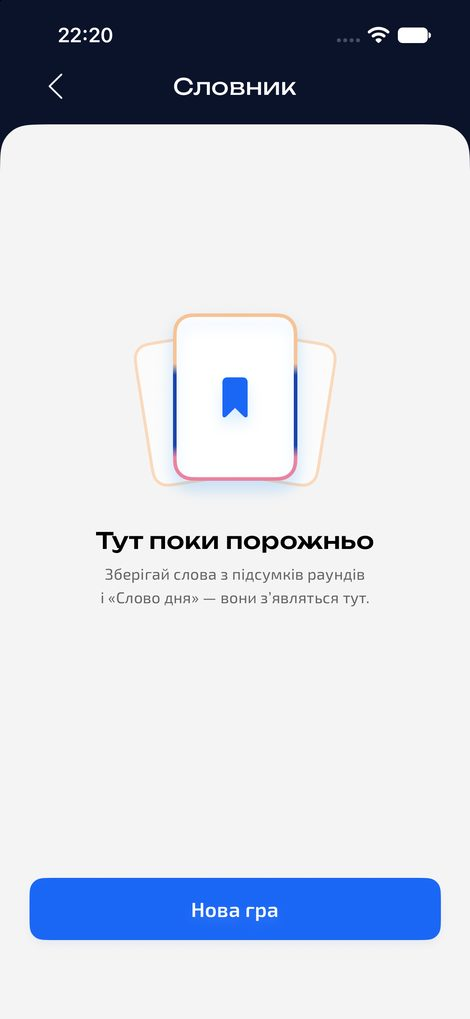
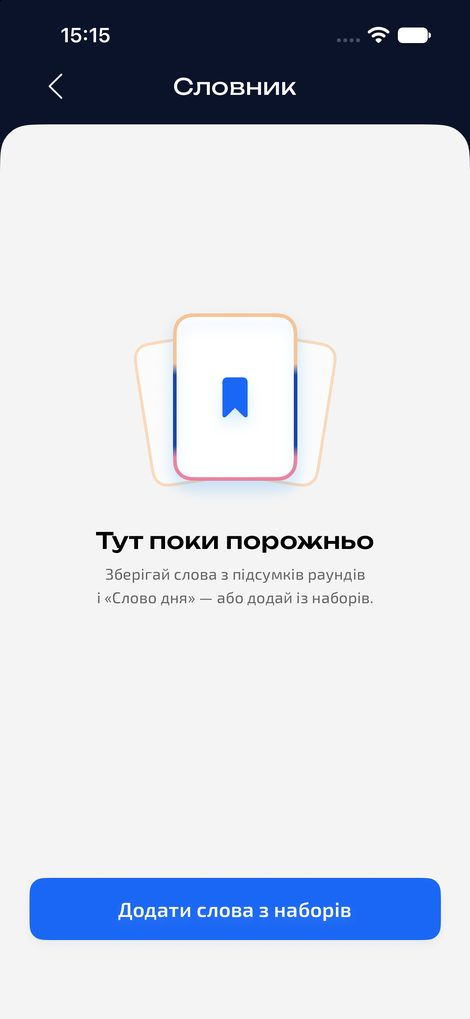
Словник: «Додати слова з наборів», «Слова набору» — 58 екранів
Claude-Session: https://claude.ai/code/session_01CGPdZXhbxxUGrxYWeE1EMW

diff --git a/index.html b/index.html
@@ -160,10 +160,10 @@ figcaption{cursor:zoom-in}
 <div class="wrap">
 <header class="mast">
 <h1>Флоу та екрани Marketium</h1>
-<p class="lede">Повна карта застосунку: шість користувацьких шляхів і всі 56 екранів. Кожен екран — справжній роут, знятий із симулятора, а не мокап. Структура зчитана з коду: <code>Router</code>, <code>RootView</code> і всі переходи між екранами.</p>
+<p class="lede">Повна карта застосунку: шість користувацьких шляхів і всі 58 екранів. Кожен екран — справжній роут, знятий із симулятора, а не мокап. Структура зчитана з коду: <code>Router</code>, <code>RootView</code> і всі переходи між екранами.</p>
 <div class="grad"></div>
 <div class="meta">
-<span><b>56</b> екранів</span><span><b>6</b> флоу</span>
+<span><b>58</b> екранів</span><span><b>6</b> флоу</span>
 <span>iPhone 16 · 393×852</span><span>SwiftUI · iOS</span>
 </div>
 <div class="howto"><span class="ic"><svg width="22" height="22" viewBox="0 0 24 24" fill="none" aria-hidden="true"><path d="M4 5.5A2.5 2.5 0 0 1 6.5 3h11A2.5 2.5 0 0 1 20 5.5v8a2.5 2.5 0 0 1-2.5 2.5H10l-4.2 3.6c-.7.6-1.8.1-1.8-.8V5.5Z" fill="currentColor"/><path d="M12 6.5v6M9 9.5h6" stroke="#fff" stroke-width="1.8" stroke-linecap="round"/></svg></span><div><b>Щоб лишити коментар — просто клікни на екран.</b><span>У тому місці зʼявиться пін і поле для тексту. Пиши, тисни «Надіслати» — коментар одразу потрапляє в таблицю команди. Без реєстрації.</span></div></div>
@@ -301,9 +301,9 @@ figcaption{cursor:zoom-in}
 </figure></div>
 </section><section class="flow" id="fD">
 <header class="fh">
-<div class="fh-top"><span class="code">D</span><h2>Словник</h2><span class="count">7</span></div>
+<div class="fh-top"><span class="code">D</span><h2>Словник</h2><span class="count">9</span></div>
 <p class="blurb">Слова, збережені під час гри. Флешкартки збирають колоду лише з невивчених і фіксують її на вході. Якщо вивчено все — береться повний словник як режим повторення.</p>
-<p class="path">savedWords → savedWordCards</p>
+<p class="path">savedWords → savedWordCards · addWords → setWords</p>
 </header>
 <div class="grid-screens"><figure class="card" tabindex="0" data-route="savedWords" data-label="Словник" data-note="Список, статистика, прогрес" data-src="shots/savedWords.jpg">
 <div class="shot"><img src="shots/savedWords.jpg" alt="Словник" loading="lazy"></div>
@@ -311,9 +311,9 @@ figcaption{cursor:zoom-in}
 </figure><figure class="card" tabindex="0" data-route="savedWordsDue" data-label="Час повторити" data-note="Вивчене дозріло — чіп «Повторити»" data-src="shots/savedWordsDue.jpg">
 <div class="shot"><img src="shots/savedWordsDue.jpg" alt="Час повторити" loading="lazy"></div>
 <figcaption><b>Час повторити</b><span class="note">Вивчене дозріло — чіп «Повторити»</span></figcaption>
-</figure><figure class="card" tabindex="0" data-route="savedWordsDone" data-label="На сьогодні все" data-note="Усе вивчено, дата наступного повторення" data-src="shots/savedWordsDone.jpg">
-<div class="shot"><img src="shots/savedWordsDone.jpg" alt="На сьогодні все" loading="lazy"></div>
-<figcaption><b>На сьогодні все</b><span class="note">Усе вивчено, дата наступного повторення</span></figcaption>
+</figure><figure class="card" tabindex="0" data-route="savedWordsDone" data-label="Усі слова вивчено" data-note="Дата наступного повторення, два CTA" data-src="shots/savedWordsDone.jpg">
+<div class="shot"><img src="shots/savedWordsDone.jpg" alt="Усі слова вивчено" loading="lazy"></div>
+<figcaption><b>Усі слова вивчено</b><span class="note">Дата наступного повторення, два CTA</span></figcaption>
 </figure><figure class="card" tabindex="0" data-route="savedWordsEmpty" data-label="Порожній словник" data-note="До першої картки" data-src="shots/savedWordsEmpty.jpg">
 <div class="shot"><img src="shots/savedWordsEmpty.jpg" alt="Порожній словник" loading="lazy"></div>
 <figcaption><b>Порожній словник</b><span class="note">До першої картки</span></figcaption>
@@ -323,9 +323,15 @@ figcaption{cursor:zoom-in}
 </figure><figure class="card" tabindex="0" data-route="savedWordCardsBack" data-label="Флешкартка — зворот" data-note="Пояснення й вердикт" data-src="shots/savedWordCardsBack.jpg">
 <div class="shot"><img src="shots/savedWordCardsBack.jpg" alt="Флешкартка — зворот" loading="lazy"></div>
 <figcaption><b>Флешкартка — зворот</b><span class="note">Пояснення й вердикт</span></figcaption>
-</figure><figure class="card" tabindex="0" data-route="savedWordCardsDone" data-label="Картки — відпочинок" data-note="Колода порожня, міст у гру" data-src="shots/savedWordCardsDone.jpg">
-<div class="shot"><img src="shots/savedWordCardsDone.jpg" alt="Картки — відпочинок" loading="lazy"></div>
-<figcaption><b>Картки — відпочинок</b><span class="note">Колода порожня, міст у гру</span></figcaption>
+</figure><figure class="card" tabindex="0" data-route="savedWordCardsDone" data-label="Усі слова вивчено" data-note="Колода порожня: додати слова або повторити всі" data-src="shots/savedWordCardsDone.jpg">
+<div class="shot"><img src="shots/savedWordCardsDone.jpg" alt="Усі слова вивчено" loading="lazy"></div>
+<figcaption><b>Усі слова вивчено</b><span class="note">Колода порожня: додати слова або повторити всі</span></figcaption>
+</figure><figure class="card" tabindex="0" data-route="addWords" data-label="Додати слова" data-note="Набори без гри: закриті ведуть на пейвол" data-src="shots/addWords.jpg">
+<div class="shot"><img src="shots/addWords.jpg" alt="Додати слова" loading="lazy"></div>
+<figcaption><b>Додати слова</b><span class="note">Набори без гри: закриті ведуть на пейвол</span></figcaption>
+</figure><figure class="card" tabindex="0" data-route="setWords" data-label="Слова набору" data-note="Закладка додає слово у «Вчу»" data-src="shots/setWords.jpg">
+<div class="shot"><img src="shots/setWords.jpg" alt="Слова набору" loading="lazy"></div>
+<figcaption><b>Слова набору</b><span class="note">Закладка додає слово у «Вчу»</span></figcaption>
 </figure></div>
 </section><section class="flow" id="fE">
 <header class="fh">
